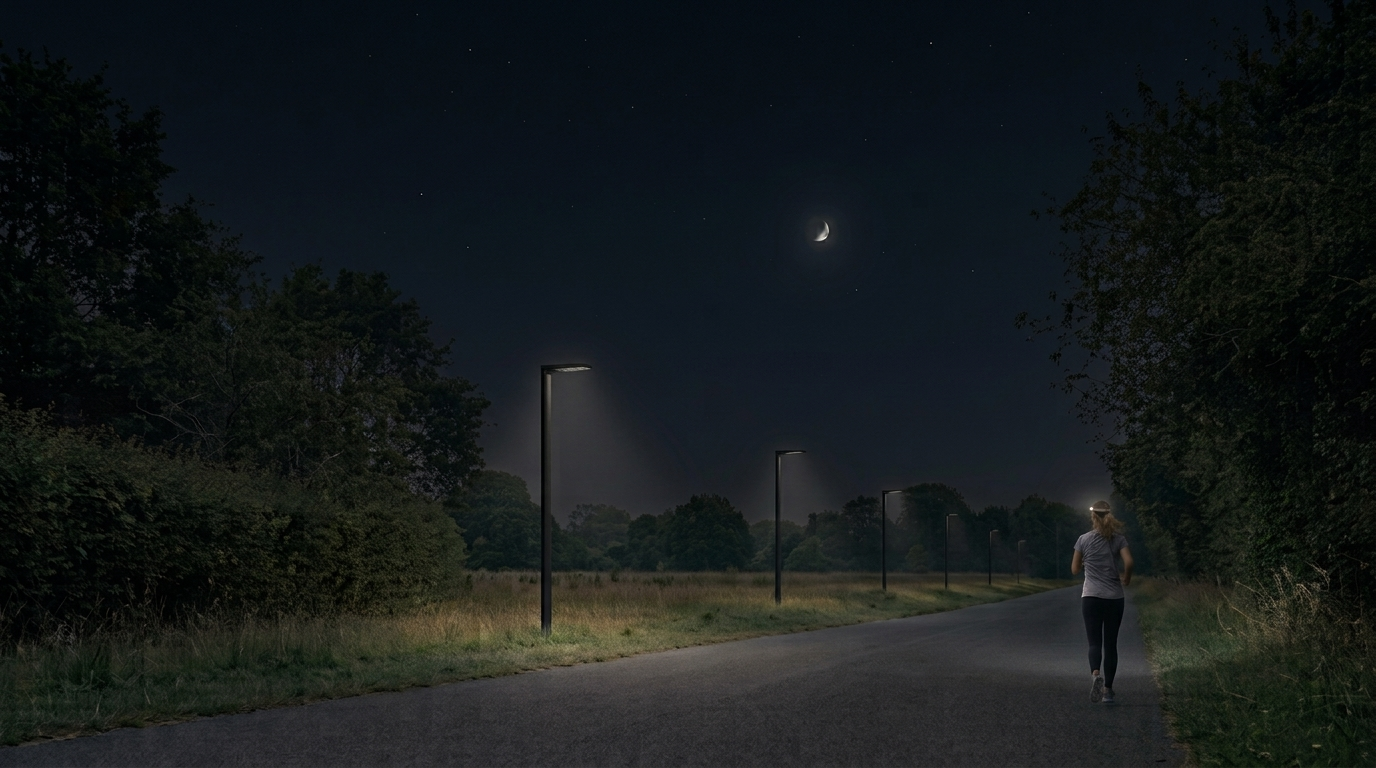
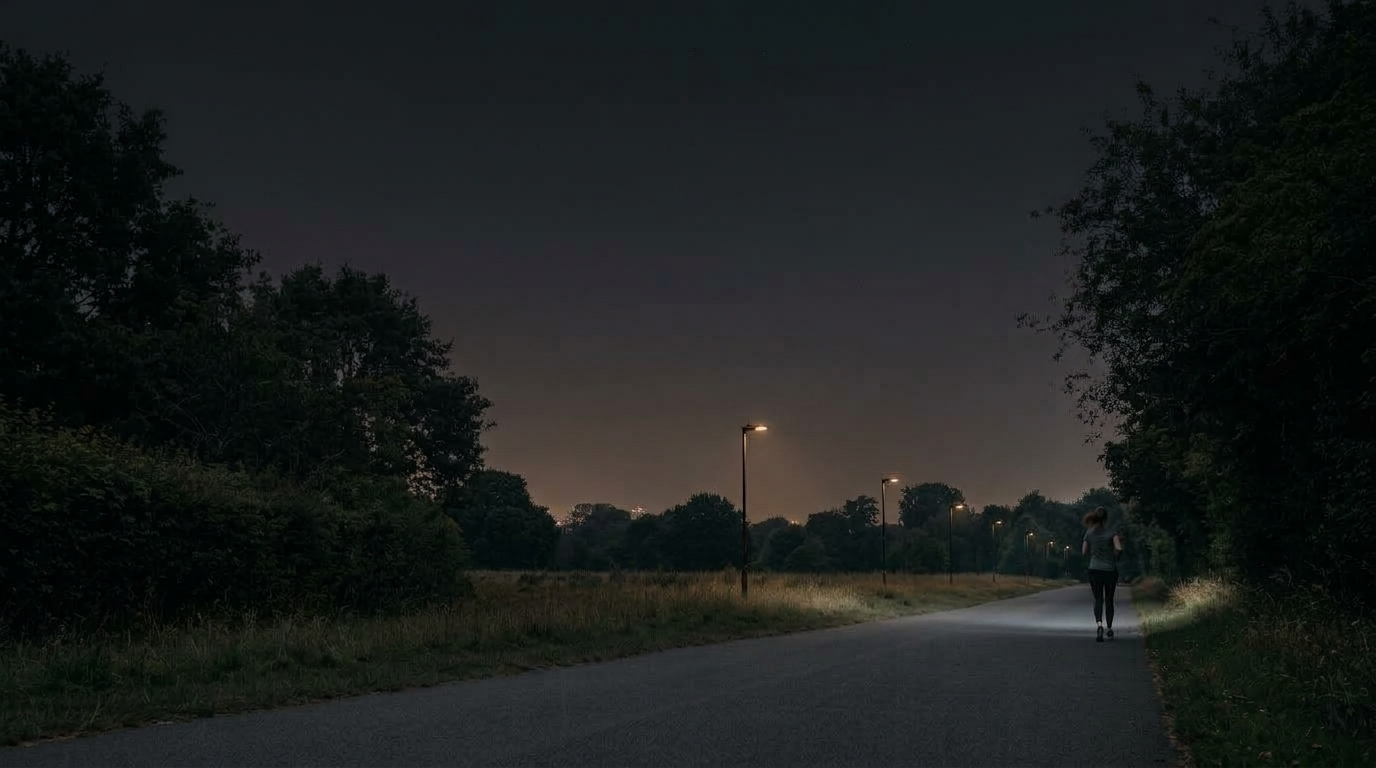
Add auto theme mode, bring the toggle to FAQ, fix its missing dark photo
- Landing's theme toggle now cycles auto -> light -> dark (was a plain
  light/dark switch), backed by public/theme.js reading/writing the
  same localStorage entry the calculator's zustand store persists to.
- Auto icon: half sun, half moon split by one consistent diagonal for
  both the artwork and the dividing line, with a background-colored
  halo drawn under the line so it doesn't cut through the artwork.
- FAQ pages get the same theme toggle as the landing, next to the
  language menu — previously dark mode there had no way to turn on.
- Fix: FAQ's background photo (.faq-bg) never had a dark counterpart,
  so only the tint over it changed in dark mode, not the photo itself.
  Wired the same light/dark image pair the landing already uses.

Claude-Session: https://claude.ai/code/session_01M9mdbGWSvd5gJ9z7dvDEuj

diff --git a/src/static/ThemeToggle.tsx b/src/static/ThemeToggle.tsx
@@ -1,17 +1,18 @@
 // The dark-mode switch for the statically rendered pages — landing and FAQ, same reasoning as
 // LangMenu (this directory): no client JS ships for these pages except this one control's, so
-// there is no React state to render two different icons from. Both icons sit in the DOM at all
-// times; `public/theme.js` sets `[data-theme]` on <html> before first paint (from localStorage,
-// falling back to prefers-color-scheme) and flips it on click, and the same attribute that
-// recolors the rest of the page also picks which icon shows (see `.theme-toggle*` rules in
-// renderPage.mjs's ROOT_STYLE).
+// there is no React state to render three different icons from. All three sit in the DOM at all
+// times; `public/theme.js` sets [data-theme] (the resolved light/dark, for colors) and
+// [data-theme-mode] (the raw auto/light/dark preference, for which icon shows) on <html>, and
+// cycles auto -> light -> dark -> auto on click. It reads/writes the same localStorage entry
+// the calculator's zustand store persists to (`carbfueling`), so a choice made here is what the
+// calculator sees too.
 //
-// Plain currentColor SVGs rather than the ☀/🌙 emoji: emoji render in their own fixed colors
-// (a yellow sun, a grey-blue moon) that clash with the site's muted off-white palette — these
-// inherit the button's ink-soft color like every other icon on the page.
+// Plain currentColor SVGs rather than emoji: emoji render in their own fixed colors (a yellow
+// sun, a grey-blue moon) that clash with the site's muted off-white palette — these inherit the
+// button's ink-soft color like every other icon on the page.
 function SunIcon() {
   return (
-    <svg viewBox="0 0 24 24" width={15} height={15} fill="none" aria-hidden="true">
+    <svg viewBox="0 0 24 24" width={17} height={17} fill="none" aria-hidden="true">
       <circle cx="12" cy="12" r="4.2" fill="currentColor" />
       <g stroke="currentColor" strokeWidth={1.8} strokeLinecap="round">
         <path d="M12 2.5v2.4M12 19.1v2.4M4.4 4.4l1.7 1.7M17.9 17.9l1.7 1.7M2.5 12h2.4M19.1 12h2.4M4.4 19.6l1.7-1.7M17.9 6.1l1.7-1.7" />
@@ -22,8 +23,45 @@ function SunIcon() {
 
 function MoonIcon() {
   return (
-    <svg viewBox="0 0 24 24" width={14} height={14} fill="currentColor" aria-hidden="true">
+    <svg viewBox="0 0 24 24" width={16} height={16} fill="currentColor" aria-hidden="true">
       <path d="M20.6 15.2A9 9 0 1 1 8.8 3.4a7.2 7.2 0 0 0 11.8 11.8Z" />
+    </svg>
+  );
+}
+
+// Half sun, half moon, split by the diagonal running from the top-right corner to the
+// bottom-left one — both the dividing line and the two clip regions use that same
+// diagonal, so the line actually sits on the sun/moon boundary instead of crossing it.
+// The gap around the line isn't cut into the artwork itself: a thick stroke in the
+// button's own background color runs along the line first, erasing whatever of the sun
+// or moon fell under it, and the thin visible line is drawn on top of that — image, gap,
+// line, gap, image, however the icons happen to be shaped.
+function AutoIcon() {
+  return (
+    <svg viewBox="0 0 24 24" width={18} height={18} fill="none" aria-hidden="true">
+      <defs>
+        <clipPath id="theme-auto-moon-clip">
+          <path d="M0 0H24L0 24Z" />
+        </clipPath>
+        <clipPath id="theme-auto-sun-clip">
+          <path d="M24 0V24H0Z" />
+        </clipPath>
+      </defs>
+      <g clipPath="url(#theme-auto-moon-clip)">
+        <path
+          d="M20.6 15.2A9 9 0 1 1 8.8 3.4a7.2 7.2 0 0 0 11.8 11.8Z"
+          fill="currentColor"
+          transform="translate(0 -1)"
+        />
+      </g>
+      <g clipPath="url(#theme-auto-sun-clip)">
+        <circle cx="12" cy="12" r="4.2" fill="currentColor" />
+        <g stroke="currentColor" strokeWidth={1.8} strokeLinecap="round">
+          <path d="M19.1 12h2.4M17.9 17.9l1.7 1.7M12 19.1v2.4M17.9 6.1l1.7-1.7" />
+        </g>
+      </g>
+      <line x1="24" y1="0" x2="0" y2="24" stroke="var(--surface)" strokeWidth={4} />
+      <line x1="24" y1="0" x2="0" y2="24" stroke="currentColor" strokeWidth={1} opacity={0.55} />
     </svg>
   );
 }
@@ -31,6 +69,9 @@ function MoonIcon() {
 export default function ThemeToggle({ label }: { label: string }) {
   return (
     <button type="button" className="theme-toggle" data-theme-toggle aria-label={label}>
+      <span className="theme-toggle-icon theme-toggle-icon-auto">
+        <AutoIcon />
+      </span>
       <span className="theme-toggle-icon theme-toggle-icon-light">
         <SunIcon />
       </span>

diff --git a/public/theme.js b/public/theme.js
@@ -1,19 +1,63 @@
 (function () {
-  var stored = null;
-  try {
-    stored = localStorage.getItem('theme');
-  } catch (e) {}
-  var theme = stored || (matchMedia('(prefers-color-scheme: dark)').matches ? 'dark' : 'light');
-  document.documentElement.dataset.theme = theme;
-})();
-document.addEventListener('DOMContentLoaded', function () {
-  var btn = document.querySelector('[data-theme-toggle]');
-  if (!btn) return;
-  btn.addEventListener('click', function () {
-    var next = document.documentElement.dataset.theme === 'dark' ? 'light' : 'dark';
-    document.documentElement.dataset.theme = next;
+  var APP_KEY = 'carbfueling';
+  // Kept in sync by hand with appStore.ts's persist `version` — this script has no access to
+  // that module. A mismatch just means the app's own `migrate` runs once on next load, which
+  // is written to tolerate partial/missing fields already, so this is a soft coupling.
+  var APP_VERSION = 5;
+  var MODES = ['auto', 'light', 'dark'];
+
+  function readThemeMode() {
     try {
-      localStorage.setItem('theme', next);
+      var raw = localStorage.getItem(APP_KEY);
+      if (raw) {
+        var parsed = JSON.parse(raw);
+        var mode = parsed && parsed.state && parsed.state.ui && parsed.state.ui.themeMode;
+        if (MODES.indexOf(mode) !== -1) return mode;
+      }
     } catch (e) {}
+    return 'auto';
+  }
+
+  // Writes into the SAME localStorage entry the calculator's zustand store persists to, so a
+  // choice made here is what the calculator sees on its next load too (and vice versa) —
+  // otherwise setting dark here and opening the calculator right after hits daylight.
+  function writeThemeMode(mode) {
+    try {
+      var raw = localStorage.getItem(APP_KEY);
+      var parsed = raw ? JSON.parse(raw) : { state: {}, version: APP_VERSION };
+      parsed.state = parsed.state || {};
+      parsed.state.ui = parsed.state.ui || {};
+      parsed.state.ui.themeMode = mode;
+      localStorage.setItem(APP_KEY, JSON.stringify(parsed));
+    } catch (e) {}
+  }
+
+  function resolve(mode) {
+    return mode === 'auto'
+      ? matchMedia('(prefers-color-scheme: dark)').matches
+        ? 'dark'
+        : 'light'
+      : mode;
+  }
+
+  function apply(mode) {
+    document.documentElement.dataset.theme = resolve(mode);
+    document.documentElement.dataset.themeMode = mode;
+  }
+
+  apply(readThemeMode());
+
+  document.addEventListener('DOMContentLoaded', function () {
+    var btn = document.querySelector('[data-theme-toggle]');
+    if (!btn) return;
+    btn.addEventListener('click', function () {
+      var next = MODES[(MODES.indexOf(readThemeMode()) + 1) % MODES.length];
+      writeThemeMode(next);
+      apply(next);
+    });
   });
-});
+
+  matchMedia('(prefers-color-scheme: dark)').addEventListener('change', function () {
+    if (readThemeMode() === 'auto') apply('auto');
+  });
+})();

diff --git a/src/faq/FaqLayout.tsx b/src/faq/FaqLayout.tsx
@@ -2,6 +2,7 @@ import type { CSSProperties, ReactNode } from 'react';
 import { LANGS, t, type Lang } from '../i18n/strings';
 import { assetHref, calculatorHref, faqHref, landingHref } from '../urls';
 import LangMenu from '../static/LangMenu';
+import ThemeToggle from '../static/ThemeToggle';
 
 const CHROME: Record<Lang, { back: string; index: string; brand: string; open: string }> = {
   en: {
@@ -88,7 +89,7 @@ const ctaButton: CSSProperties = {
   alignItems: 'center',
   gap: 8,
   border: '1px solid var(--chip-border)',
-  background: '#fff',
+  background: 'var(--surface)',
   borderRadius: 999,
   padding: '9px 16px',
   fontSize: 13,
@@ -139,7 +140,8 @@ export function FaqLayout({
 
   return (
     <div style={{ minHeight: '100vh', display: 'flex', flexDirection: 'column' }}>
-      <img className="faq-bg" src={assetHref('/landing/road.jpg')} alt="" />
+      <img className="faq-bg is-light" src={assetHref('/landing/road.jpg')} alt="" />
+      <img className="faq-bg is-dark" src={assetHref('/landing/road-dark.jpeg')} alt="" />
       <div className="faq-wash" />
       <header
         className="faq-header"
@@ -172,6 +174,7 @@ export function FaqLayout({
           </span>
         </a>
         <div className="faq-actions">
+          <ThemeToggle label={t(lang).themeToggleLabel} />
           <LangMenu
             langs={LANGS}
             current={lang}

diff --git a/src/i18n/strings.ts b/src/i18n/strings.ts
@@ -512,7 +512,7 @@ export const STR: Record<Lang, StringTable> = {
     viewLabel: 'Tryb wyświetlania',
     viewAuto: 'Auto',
     autoDetected: 'wykryte automatycznie: ',
-    themeToggleLabel: 'Przełącz jasny/ciemny motyw',
+    themeToggleLabel: 'Przełącz motyw (auto/jasny/ciemny)',
     themeLabel: 'Motyw',
     themeAuto: 'Auto',
     themeLight: 'Jasny',
@@ -921,7 +921,7 @@ export const STR: Record<Lang, StringTable> = {
     viewLabel: 'Display mode',
     viewAuto: 'Auto',
     autoDetected: 'auto-detected: ',
-    themeToggleLabel: 'Toggle light/dark theme',
+    themeToggleLabel: 'Toggle theme (auto/light/dark)',
     themeLabel: 'Theme',
     themeAuto: 'Auto',
     themeLight: 'Light',
@@ -1326,7 +1326,7 @@ export const STR: Record<Lang, StringTable> = {
     viewLabel: 'Anzeigemodus',
     viewAuto: 'Auto',
     autoDetected: 'automatisch erkannt: ',
-    themeToggleLabel: 'Hell-/Dunkelmodus umschalten',
+    themeToggleLabel: 'Design umschalten (auto/hell/dunkel)',
     themeLabel: 'Design',
     themeAuto: 'Auto',
     themeLight: 'Hell',
